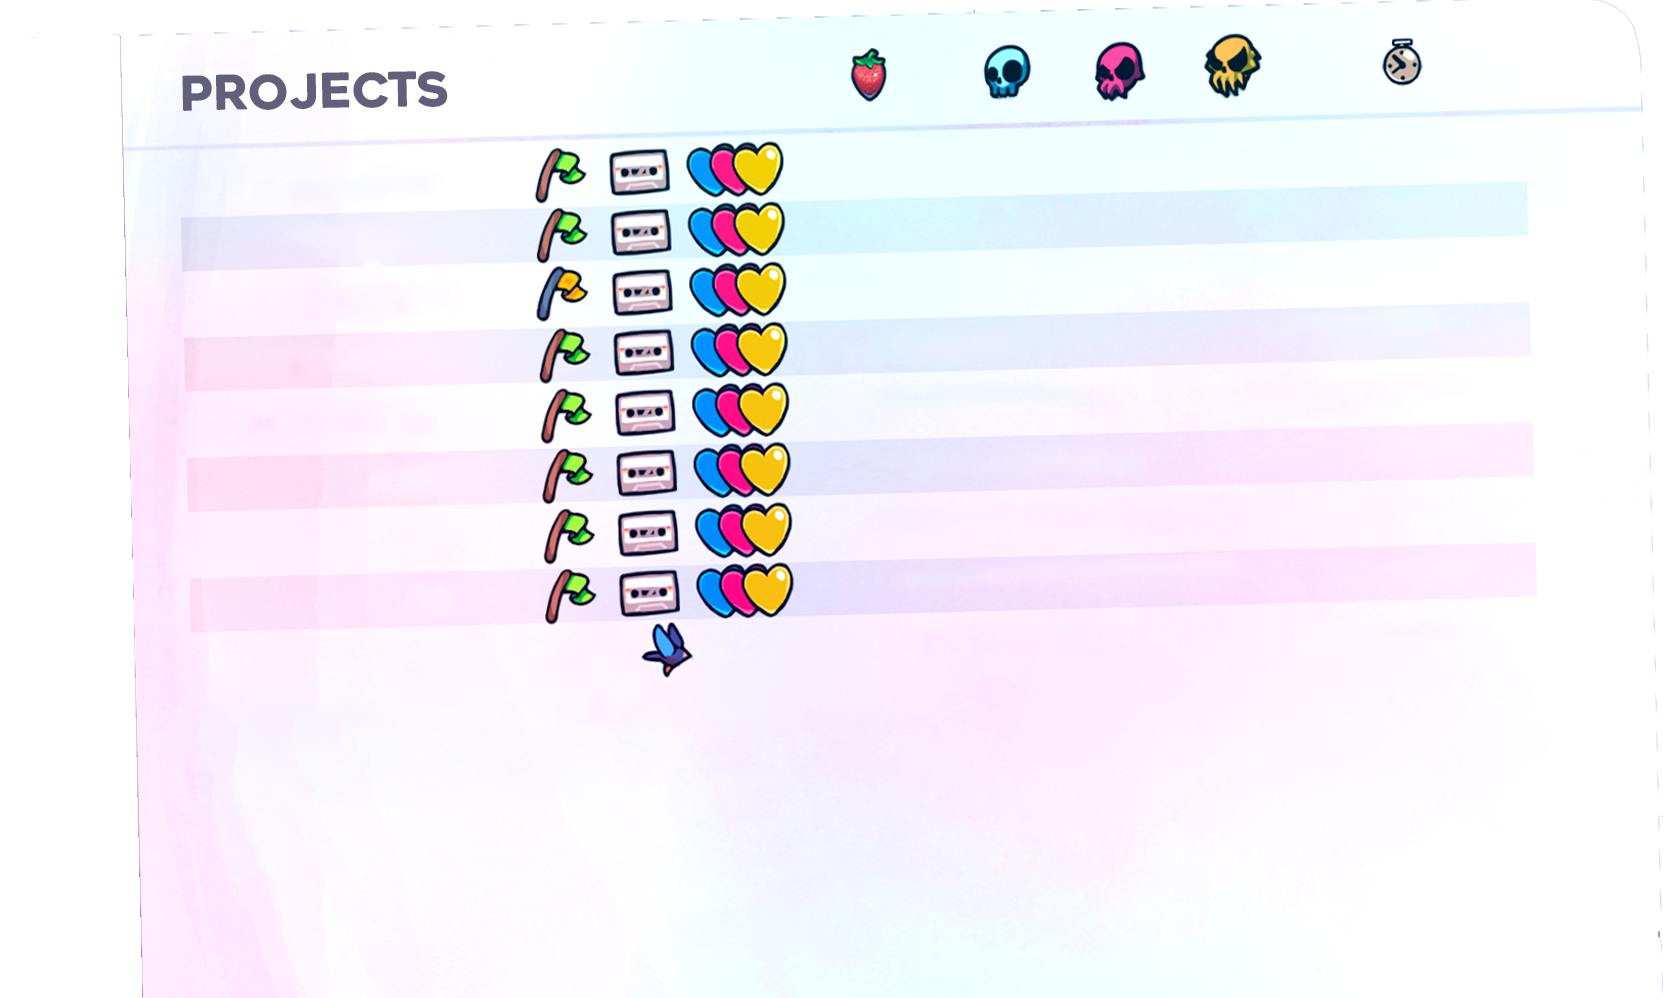
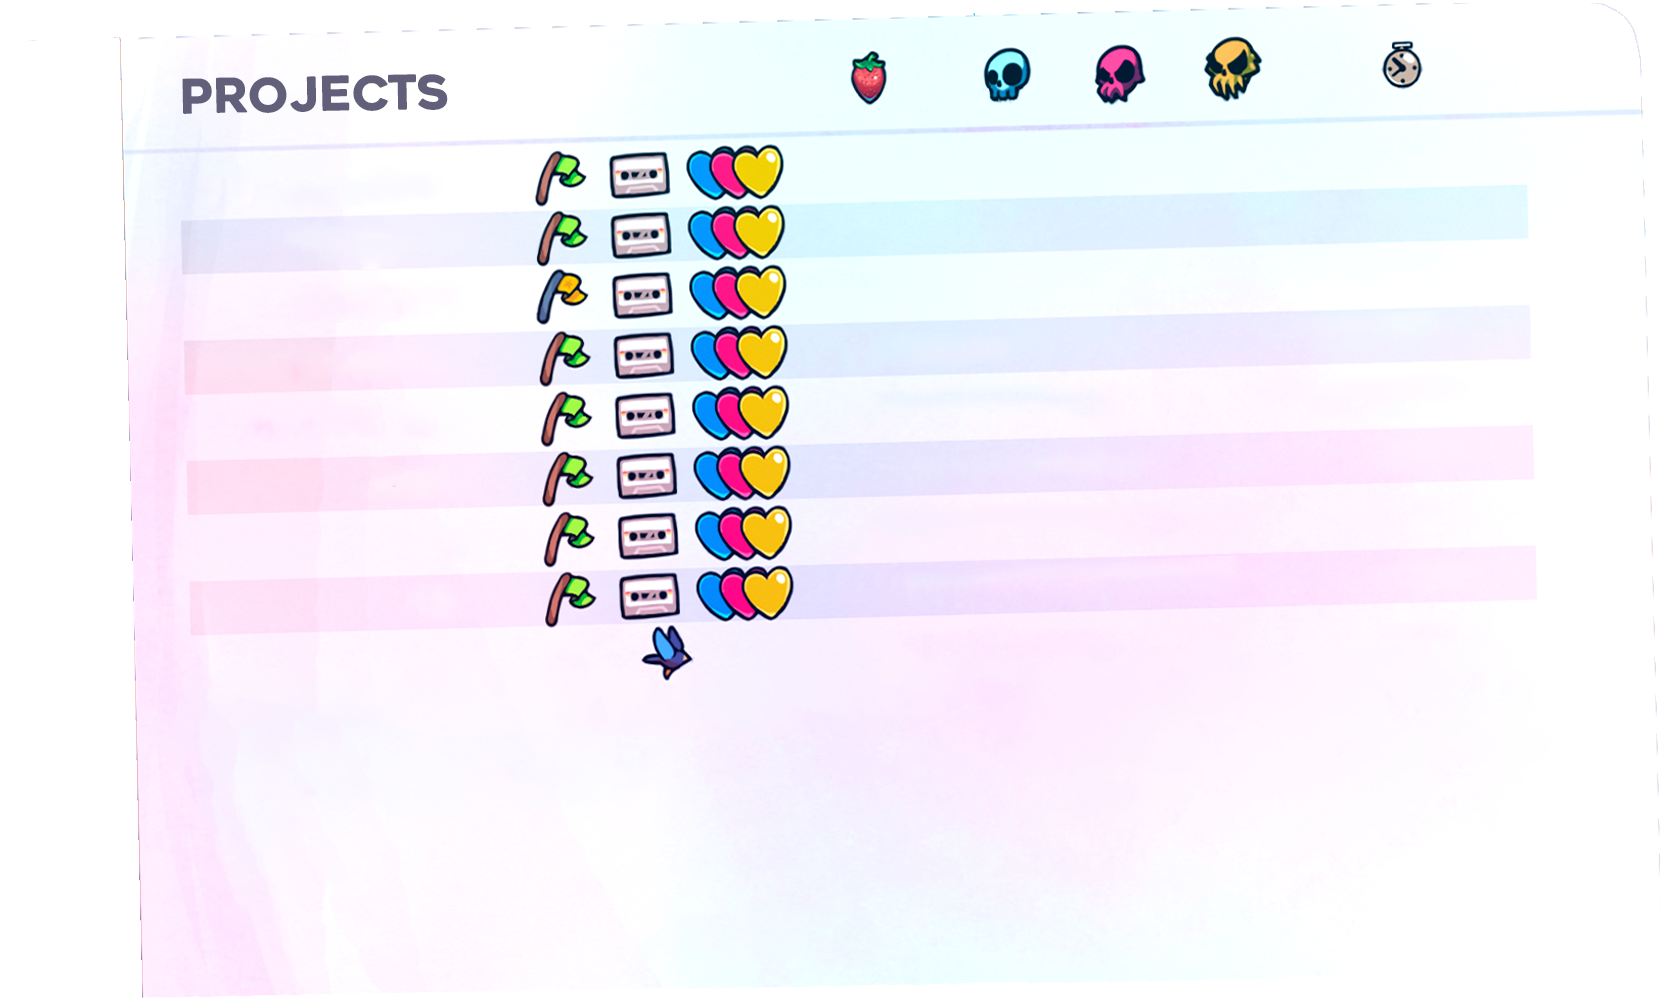
reload fixed

diff --git a/JS/Celeste-responsive.js b/JS/Celeste-responsive.js
@@ -1,18 +1,15 @@
-// responsive.js
-// Escala o layout inteiro proporcionalmente ao tamanho da janela.
-// O layout foi desenhado para 1920 × 957 px.
-
 (function () {
     const BASE_W = 1920;
     const BASE_H = 957;
 
     function applyScale() {
-        const scaleX = window.innerWidth  / BASE_W;
-        const scaleY = window.innerHeight / BASE_H;
-        // Usa o menor dos dois para que tudo caiba na tela
-        const scale  = Math.min(scaleX, scaleY);
-        document.documentElement.style.setProperty('--scale', scale);
-    }
+    const scaleX = window.innerWidth  / BASE_W;
+    const scaleY = window.innerHeight / BASE_H;
+    const scale  = Math.min(scaleX, scaleY);
+    document.documentElement.style.setProperty('--scale', scale);
+    document.getElementById('app').style.setProperty('--scale', scale);
+    window.scrollTo(0, 0); // <- reseta scroll
+}
 
     applyScale();
     window.addEventListener('resize', applyScale);

diff --git a/HTML/Evangelion.html b/HTML/Evangelion.html
@@ -21,8 +21,8 @@
     <div class="options-back"> <!----------------------------------------------------------Options-------------------------------------------------->
         <p class="glow text" id="home2" onclick="moveback(this)">Home</p>
         <p class="glow text" id="about2" onclick="moveback(this)">About</p>
-        <p class="glow text" id="socials2">Socials</p>
-        <p class="glow text" id="projects2">Projects</p>
+        <p class="glow text" id="socials2" onclick="moveback(this)">Socials</p>
+        <p class="glow text" id="projects2" onclick="moveback(this)">Projects</p>
     </div>
     <div class="screen">
         <div class="screen" id="screen-about">

diff --git a/CSS/Celeste.css b/CSS/Celeste.css
@@ -27,6 +27,10 @@ video {
  * O scale é calculado por JS (ver script-responsive.js).
  */
 
+ html {
+    overflow: hidden;
+}
+
 body{
     margin:0;
     overflow:hidden;
@@ -39,6 +43,11 @@ body{
     transform: scale(var(--scale,1));
     display:grid;
     grid-template-columns:380px 1fr;
+    opacity: 0;
+}
+
+#app[style] {
+    opacity: 1;
 }
 
 .screen {
@@ -321,6 +330,6 @@ div.option p{
     transform: rotate(0deg);
 }
 
-.front  { z-index: 3; position: relative; }
+.front  { z-index: 3; position: relative; top: 5px; }
 .middle { z-index: 2; position: relative; }
 .back   { z-index: 1; position: relative; top: -993px; }

diff --git a/HTML/Celeste.html b/HTML/Celeste.html
@@ -6,6 +6,9 @@
     <title>Soul</title>
     <link rel="stylesheet" href="../CSS/Celeste.css">
     <link rel="shortcut icon" href="../Imagens/PNG/Celeste/Strawberry.ico" type="image/x-icon">
+    <style>
+    html, body { overflow: hidden; scroll-behavior: auto; }
+</style>
 </head>
 <body>
     <video autoplay muted loop playsinline id="bg-video" src="../Videos/Celeste - Animated Wallpaper - Celeste Mountain.mp4">Celeste</video>

diff --git a/JS/Evangelion.js b/JS/Evangelion.js
@@ -19,7 +19,6 @@ function moveback(option2){
         option.classList.remove('show')
     }
     if (option2.id === 'about2'){
-        window.alert('You are already in about :D');
         document.querySelector('#screen-about').classList.add('active')
     }
 }
